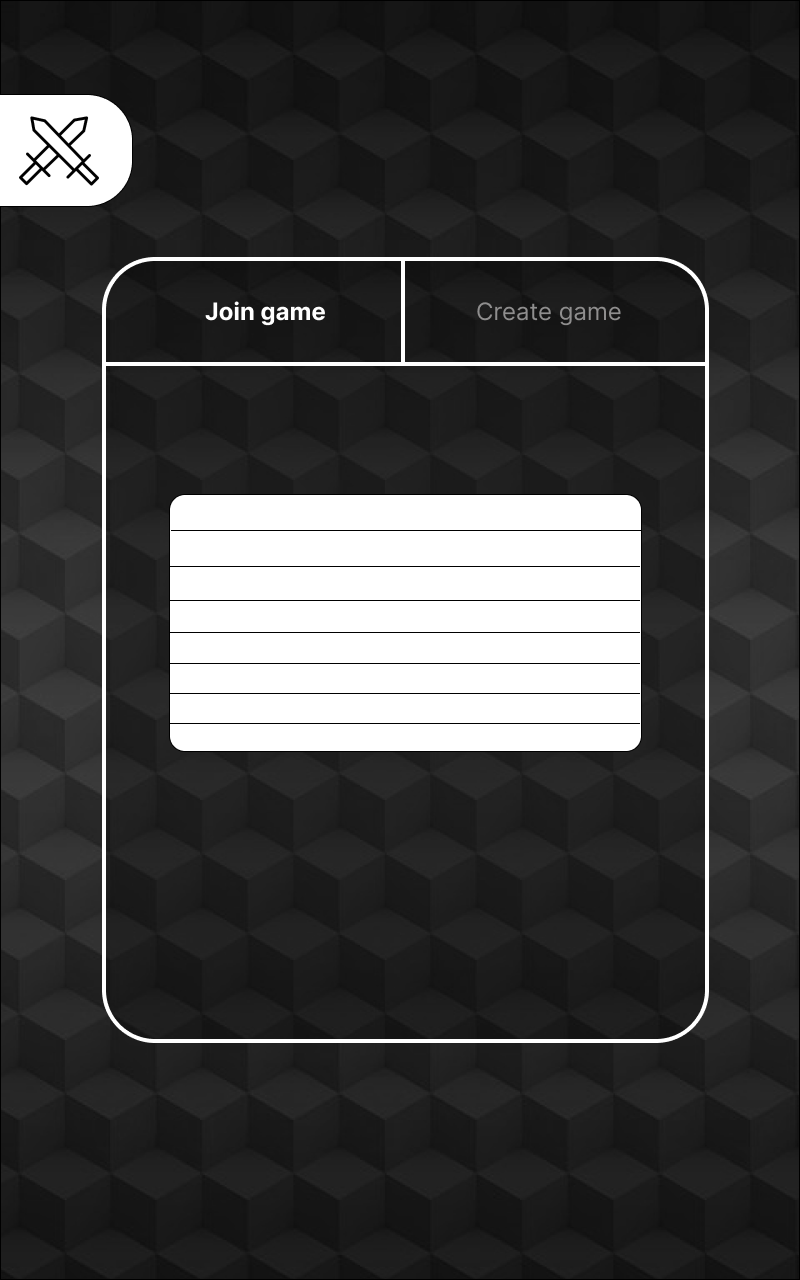
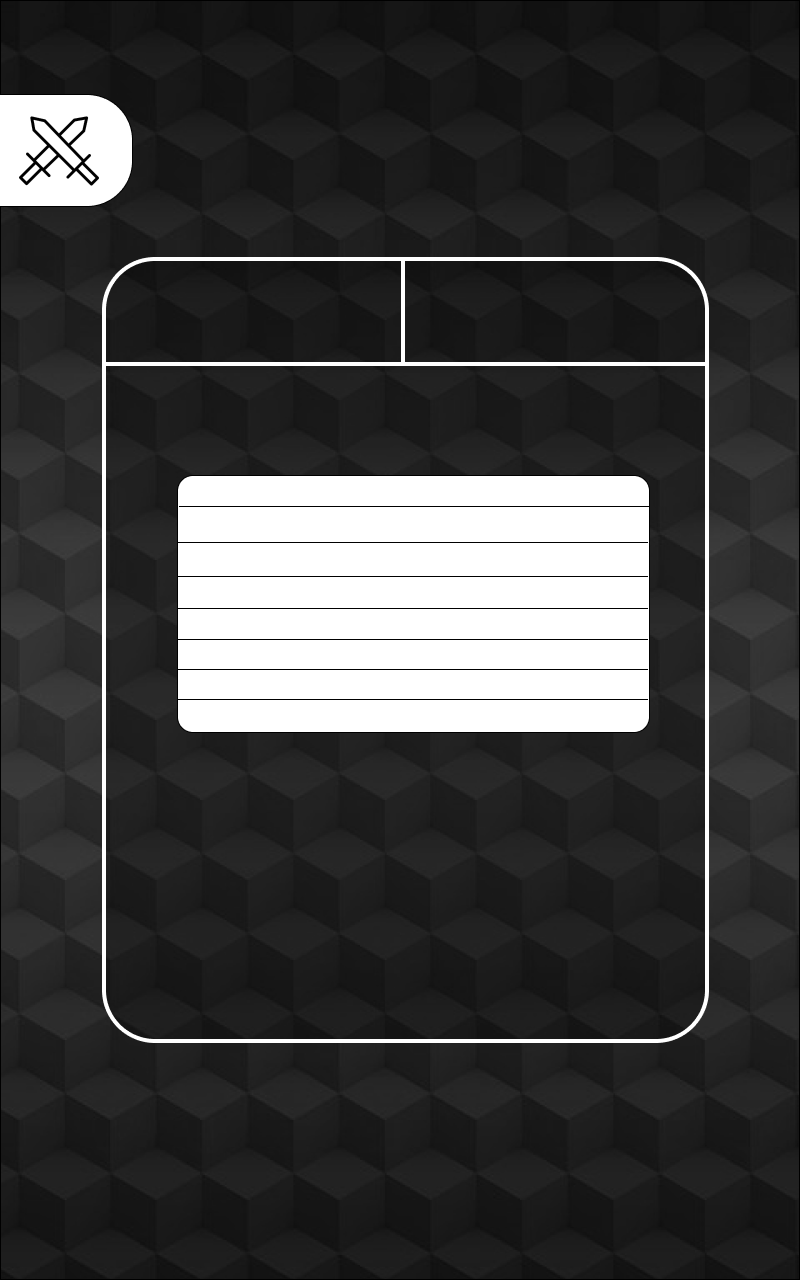
vue games changes

Changed region(s): [[0.1875, 0.3438, 0.8125, 0.5938], [0.5938, 0.2188, 0.7812, 0.25], [0.25, 0.2188, 0.4062, 0.25]]

diff --git a/src/components/JoinGame.vue b/src/components/JoinGame.vue
@@ -18,8 +18,11 @@ export default {
 
     <div class="Screen">   
        <RouterLink to="/menuMv"> <img class="HomeLogo" src="..\assets\images\HomeLogo.png"> </RouterLink>
-       
-       <div class="form-container">
+        
+       <div class="navigation-text-general">
+            <RouterLink to="/createGame"><label class="create-text">Create game</label></RouterLink>
+            <label class="join-text"><strong>Join game</strong></label>
+        </div>
 
         <div class="search-bar">
             <input class="input_field" placeholder="Search..."><br>
@@ -31,6 +34,7 @@ export default {
             <label class="table-cell">Game2</label>
             <label class="table-cell">Game3</label>
             <label class="table-cell">Game4</label>
+            <label class="table-cell">Game5</label>
         </div>
 
         <div class="column-size">
@@ -68,9 +72,7 @@ export default {
             </label>
         </div>
         
-
         <button class="Button" type="submit">JOIN</button>
-        </div>
     </div>   
 
 </template>
@@ -97,6 +99,12 @@ left: 180px;
 top: 800px;
 left: 350px;
   
+}
+
+.search-bar{
+    margin-top: 270px;
+    margin-left: 150px;
+    width: 500px;
 }
 
 .checkbox-label-dates {
@@ -155,26 +163,26 @@ margin-top: 130px;
 .name-text {
     font-size: 18px;
     position: absolute;
-    top: 495px;
+    top: 475px;
     left: 180px;
 }
 .size-text {
     font-size: 18px;
     position: absolute;
-    top: 495px;
+    top: 475px;
     left: 300px;
 }
 .hp-text {
     font-size: 18px;
     position: absolute;
-    top: 495px;
+    top: 475px;
     left: 430px;
 }
 
 .date-text {
     font-size: 18px;
     position: absolute;
-    top: 495px;
+    top: 475px;
     left: 520px;
 }
 
@@ -185,7 +193,7 @@ margin-top: 130px;
 
 .column-name {
     position: absolute;
-    top: 530px;
+    top: 505px;
     left: 180px;
     display: flex;
     flex-direction: column;
@@ -194,7 +202,7 @@ margin-top: 130px;
 
 .column-size {
     position: absolute;
-    top: 530px;
+    top: 505px;
     left: 300px;
     display: flex;
     flex-direction: column;
@@ -202,7 +210,7 @@ margin-top: 130px;
 
 .column-hp {
     position: absolute;
-    top: 530px;
+    top: 505px;
     left: 430px;
     display: flex;
     flex-direction: column;
@@ -210,7 +218,7 @@ margin-top: 130px;
 
 .column-date {
     position: absolute;
-    top: 530px;
+    top: 505px;
     left: 550px;
     display: flex;
     flex-direction: column;
@@ -227,6 +235,25 @@ margin-top: 130px;
   height: 800px;
   max-width: 100%; /* Ancho máximo para mantener la responsividad */
   box-sizing: border-box; /* Incluye el padding y el border en el tamaño total */
+}
+
+.navigation-text-general {
+    font-size: 25px;
+    position: absolute;
+    top: 290px;
+    white-space: nowrap;
+}
+
+.create-text {
+    color: #8F8F8F;
+    position: absolute;
+    left: 468px;
+}
+
+.join-text {
+    color: white;
+    position: absolute;
+    left: 203px;
 }
 
 </style>

diff --git a/src/components/CreateGame.vue b/src/components/CreateGame.vue
@@ -11,6 +11,11 @@ let hp = ''; // Initializing hp input string
 
     <div class="Screen">   
        <RouterLink to="/menuMv"> <img class="HomeLogo" src="..\assets\images\HomeLogo.png"> </RouterLink>
+
+       <div class="navigation-text-general">
+            <RouterLink to="/joinGame"><label class="join-text">Join game</label></RouterLink>
+            <label class="create-text"><strong>Create game</strong></label>
+        </div>
        
        <div class="form-container">
 
@@ -118,6 +123,24 @@ border-radius: 25.5px;
     margin-top: 20px;
     margin-left: 60px;
     width: 30%;
+}
+
+.navigation-text-general {
+    font-size: 25px;
+    position: absolute;
+    top: 405px;
+    white-space: nowrap;
+}
+
+.join-text {
+    position: absolute;
+    left: 197px;
+}
+
+.create-text {
+    color: #8F8F8F;
+    position: absolute;
+    left: 460px;
 }
 
 </style>
